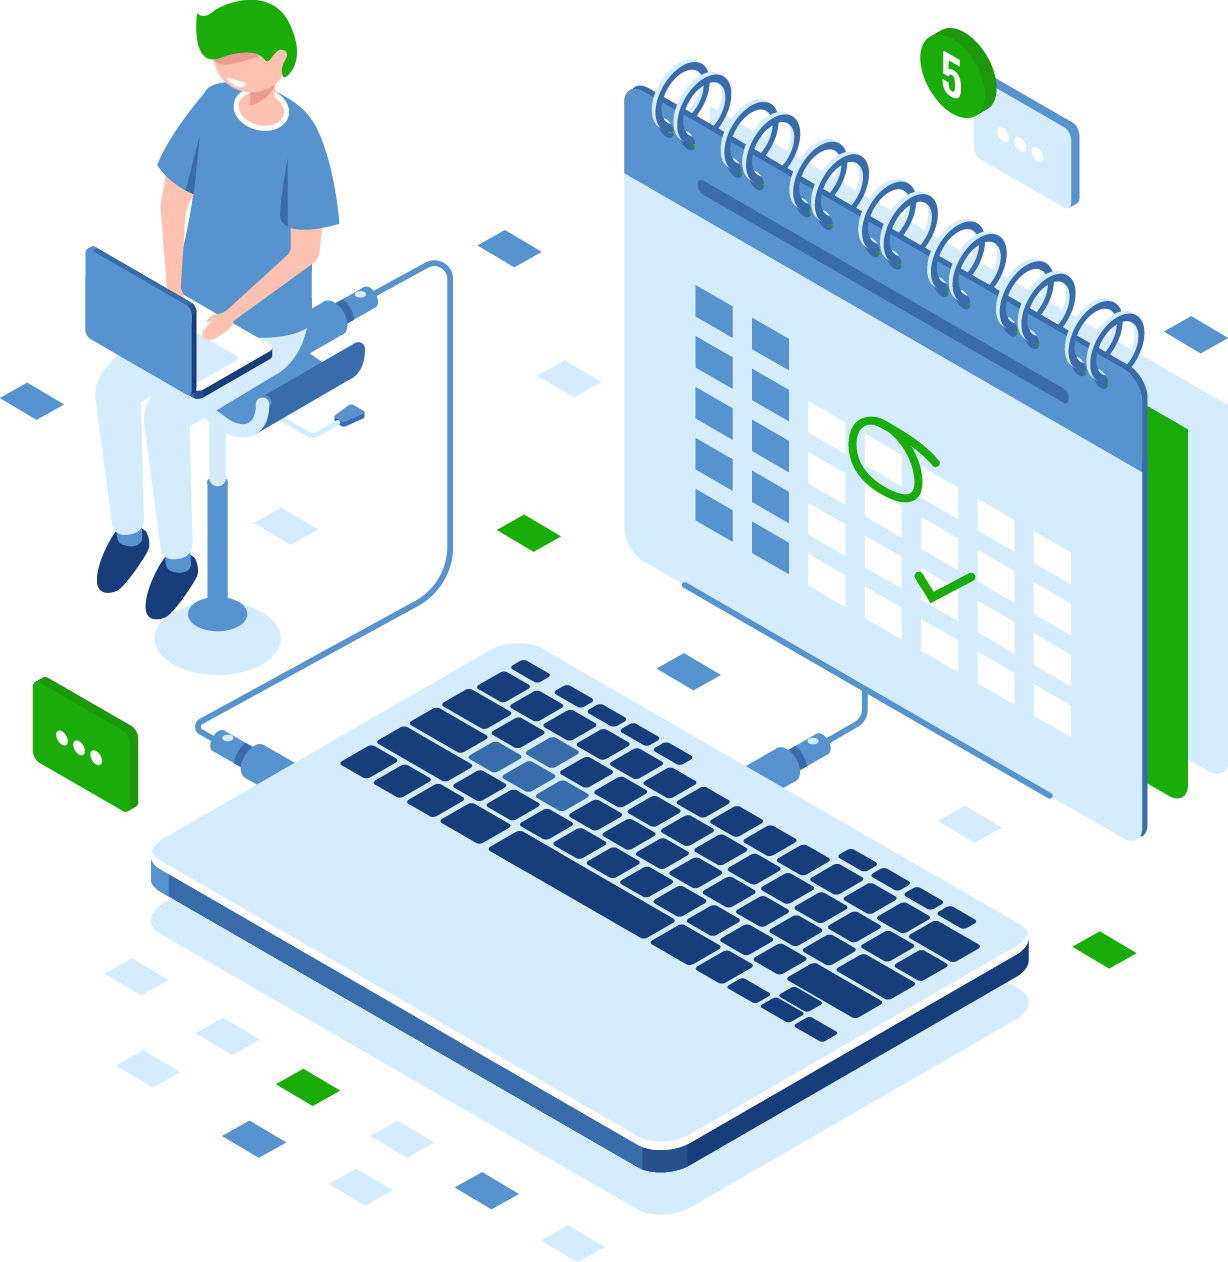
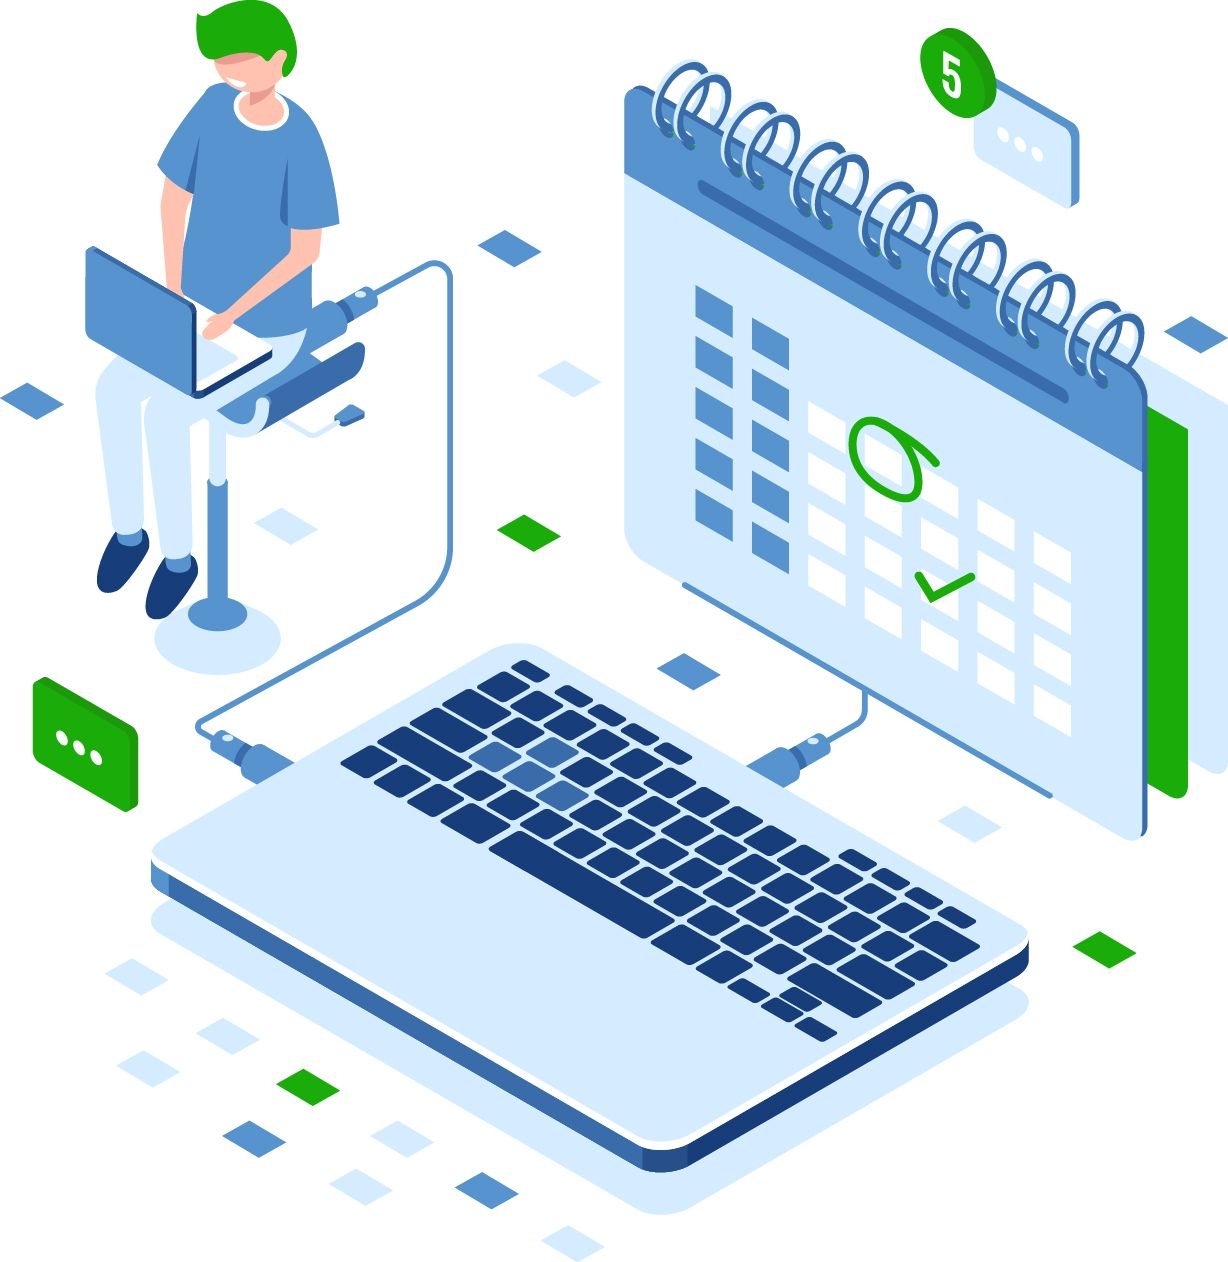
Compress image to load faster :rocket:

Changed region(s): [[0.7427, 0.3399, 0.7736, 0.3708], [0.2166, 0.0309, 0.2476, 0.0618]]

diff --git a/src/components/layout.js b/src/components/layout.js
@@ -45,7 +45,7 @@ function Layout({ children }) {
                   
                 <div className="pl-4 flex items-center">
                   <Link to={`/#`} className="toggleColour no-underline hover:no-underline font-bold text-2xl lg:text-4xl text-gray-800"> 
-                    <img className="ayolokahead" alt="img_ayolokahead" src={ayolokahead}/>
+                    <img className="ayolokahead" alt="" src={ayolokahead}/>
                   </Link>
                 </div>
 
@@ -116,7 +116,7 @@ function Layout({ children }) {
                 </div>
 
                 <div className="w-full md:w-3/5 py-6 text-center">
-                  <img className="w-full md:w-4/5 z-50" alt="img-hero" src={heroImg} />
+                  <img className="w-full md:w-4/5 z-50" alt="" src={heroImg} />
                 </div>
                 
               </div>
@@ -157,7 +157,7 @@ function Layout({ children }) {
 
                   <div className="w-full sm:w-1/2 p-6">
                     <Fade right> 
-                    <img src={website_prog1} />
+                    <img alt="" src={website_prog1} />
                     </Fade>
                   </div>
                   
@@ -169,7 +169,7 @@ function Layout({ children }) {
                   
                   <div className="w-full sm:w-1/2 p-6 mt-6">
                     <Fade left>
-                    <img src={website_prog2}/>
+                    <img alt="" src={website_prog2}/>
                     </Fade>
                   </div>
                   
@@ -193,7 +193,7 @@ function Layout({ children }) {
                   </div>
                   <div className="w-full sm:w-1/2 p-6">
                     <Fade right>
-                    <img src={website_prog5}/>
+                    <img alt="" src={website_prog5}/>
                     </Fade>
                   </div>
                 </div>
@@ -201,7 +201,7 @@ function Layout({ children }) {
                 <div className="flex content-center items-center flex-wrap flex-col-reverse sm:flex-row">	
                   <div className="w-full sm:w-1/2 p-6 mt-6">
                     <Fade left>
-                    <img src={website_prog3}/>
+                    <img alt="" src={website_prog3}/>
                     </Fade>
                   </div>
 
@@ -251,7 +251,7 @@ function Layout({ children }) {
 
                   <div className="mb-6 flex justify-center ">
                     <a href={`/#`}> 
-                      <img className="ayolokahead" alt="img-ayolokahead" src={ayolokahead}/>
+                      <img className="ayolokahead" alt="" src={ayolokahead}/>
                     </a>
                   </div>
                         

diff --git a/gatsby-config.js b/gatsby-config.js
@@ -1,8 +1,8 @@
 module.exports = {
   siteMetadata: {
-    title: `Ayoloka`,
+    title: `Ayoloka - Buat Event Gratis , Beli Tiket Workshop & Cari Jadwal Event`,
     siteUrl: `https://www.ayoloka.com`,
-    description: `Ayoloka - Jagonya Bikin Event`,
+    description: `Buat event lebih mudah di Ayoloka , ayo cari atau buat workshop , jadwalkan , beli dan jual tiketmu sekarang di Ayoloka.com. `,
     author: `@ayoloka.com`,    
     blog: `https://blog.ayoloka.com`,
     docs: `https://docs.ayoloka.com`,

diff --git a/src/pages/index.js b/src/pages/index.js
@@ -17,7 +17,7 @@ function IndexPage() {
       </Helmet>
       
       <SEO
-        title="Ayoloka - Buat Event Gratis , Beli Tiket Workshop & Cari Jadwal Event"
+        // title=""
         keywords={[`event surabaya`, `event platform`, `loket.com`, `ayoloka`,`eventbrite`,`buat event gratis`]}
       />
     
